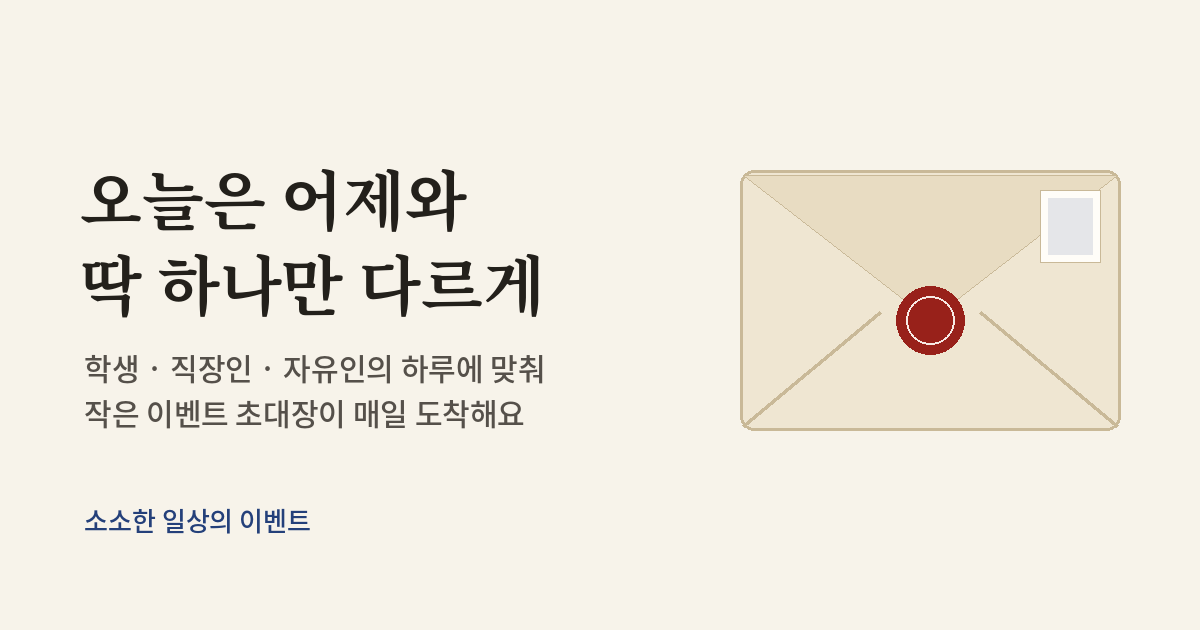
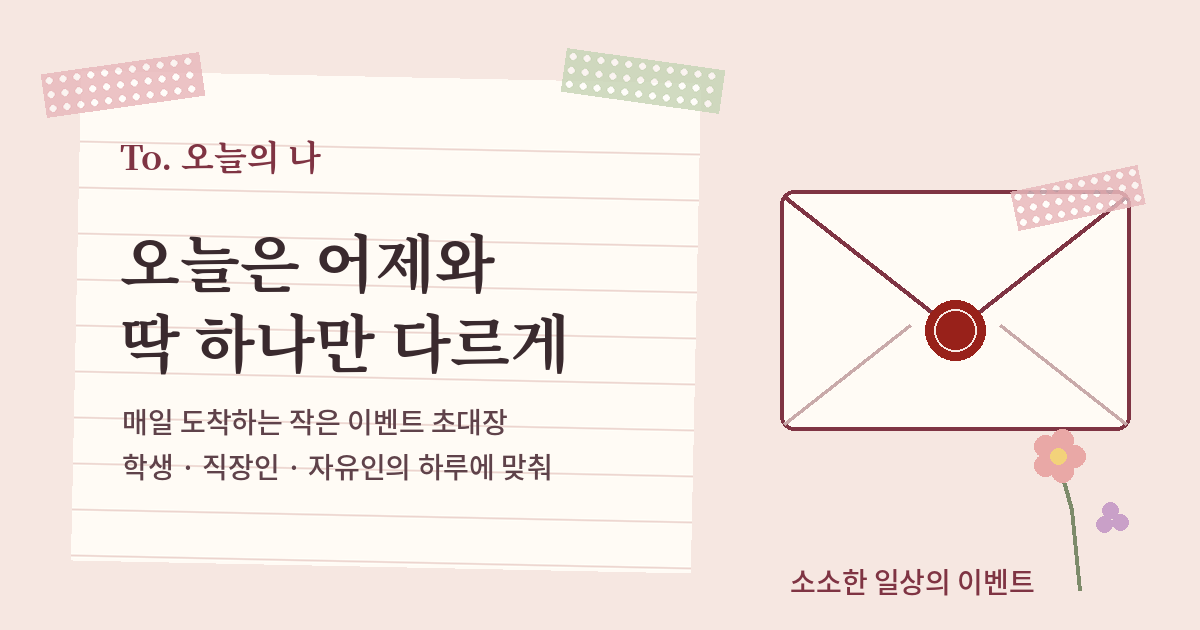
style: 소소한 일상의 이벤트 아이콘 · 공유 이미지 · 봉투를 파스텔 톤으로
Claude-Session: https://claude.ai/code/session_01EmZgdgxxmgYZycr9awNhwE

diff --git a/projects/daily-event/src/styles/style.css b/projects/daily-event/src/styles/style.css
@@ -385,6 +385,11 @@ html[data-theme="pastel"] .invite::before {
 .envelope__stamp { fill: var(--color-soft); }
 .envelope__stamp-line { fill: none; stroke: var(--color-primary); stroke-width: 2; stroke-linecap: round; }
 .envelope__postmark { fill: none; stroke: #98211a; stroke-width: 1.5; opacity: 0.55; }
+/* 파스텔 봉투 */
+html[data-theme="pastel"] .envelope__body { fill: #fffbf5; stroke: #d9b3b6; }
+html[data-theme="pastel"] .envelope__fold { stroke: #d9b3b6; }
+html[data-theme="pastel"] .envelope__flap-shape { fill: #f9ece8; stroke: #d9b3b6; }
+html[data-theme="pastel"] .envelope__stamp-edge { stroke: #d9b3b6; }
 .envelope--opening .envelope__flap { transform: scaleY(-1); }
 .envelope--opening .envelope__seal,
 .envelope--opening .envelope__seal-ring,

diff --git a/projects/daily-event/DESIGN.md b/projects/daily-event/DESIGN.md
@@ -62,7 +62,12 @@
 - 파스텔 대비: 표면색 기준 7:1 이상, 바탕색 기준 6:1 이상
 - 손글씨체(나눔펜, Google Fonts)는 파스텔의 `To.` · `From.` 장식 글자에만 쓴다. 본문에는 쓰지 않는다
 
-### 그림 색 (화면 상태와 상관없이 고정)
+### 그림 · 아이콘 (파스텔 기준)
+- 파비콘 · 앱 아이콘(180 · 192 · 512px): 복숭아 바탕 + 크림 봉투(장미 테두리) + 빨간 봉인 + 분홍 마스킹테이프
+- 공유 이미지 `og-image.png`(1200×630): 줄 편지지에 "오늘은 어제와 딱 하나만 다르게", 테이프 2장, 봉투, 말린 꽃
+- 파스텔 봉투: 몸통 `#fffbf5`, 덮개 `#f9ece8`, 선 `#d9b3b6` (항공우편 봉투 색은 아래 표)
+
+### 그림 색 (항공우편)
 | 이름 | 값 | 이름 | 값 |
 |---|---|---|---|
 | 봉투 | `#efe6d2` | 봉투 덮개 | `#e8dcc2` |
